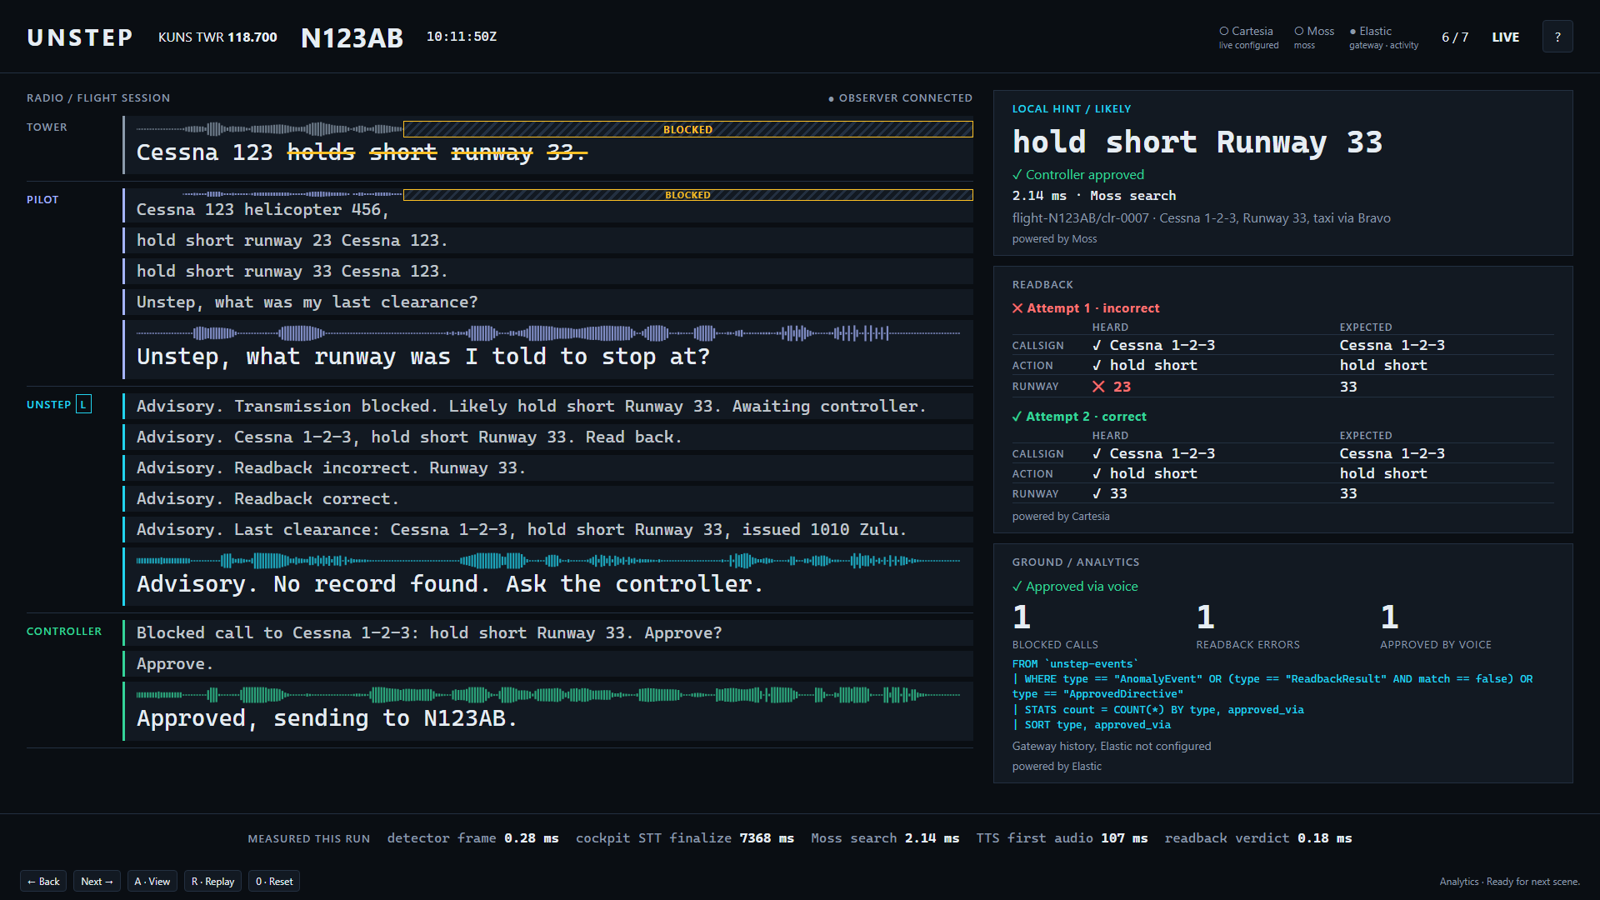
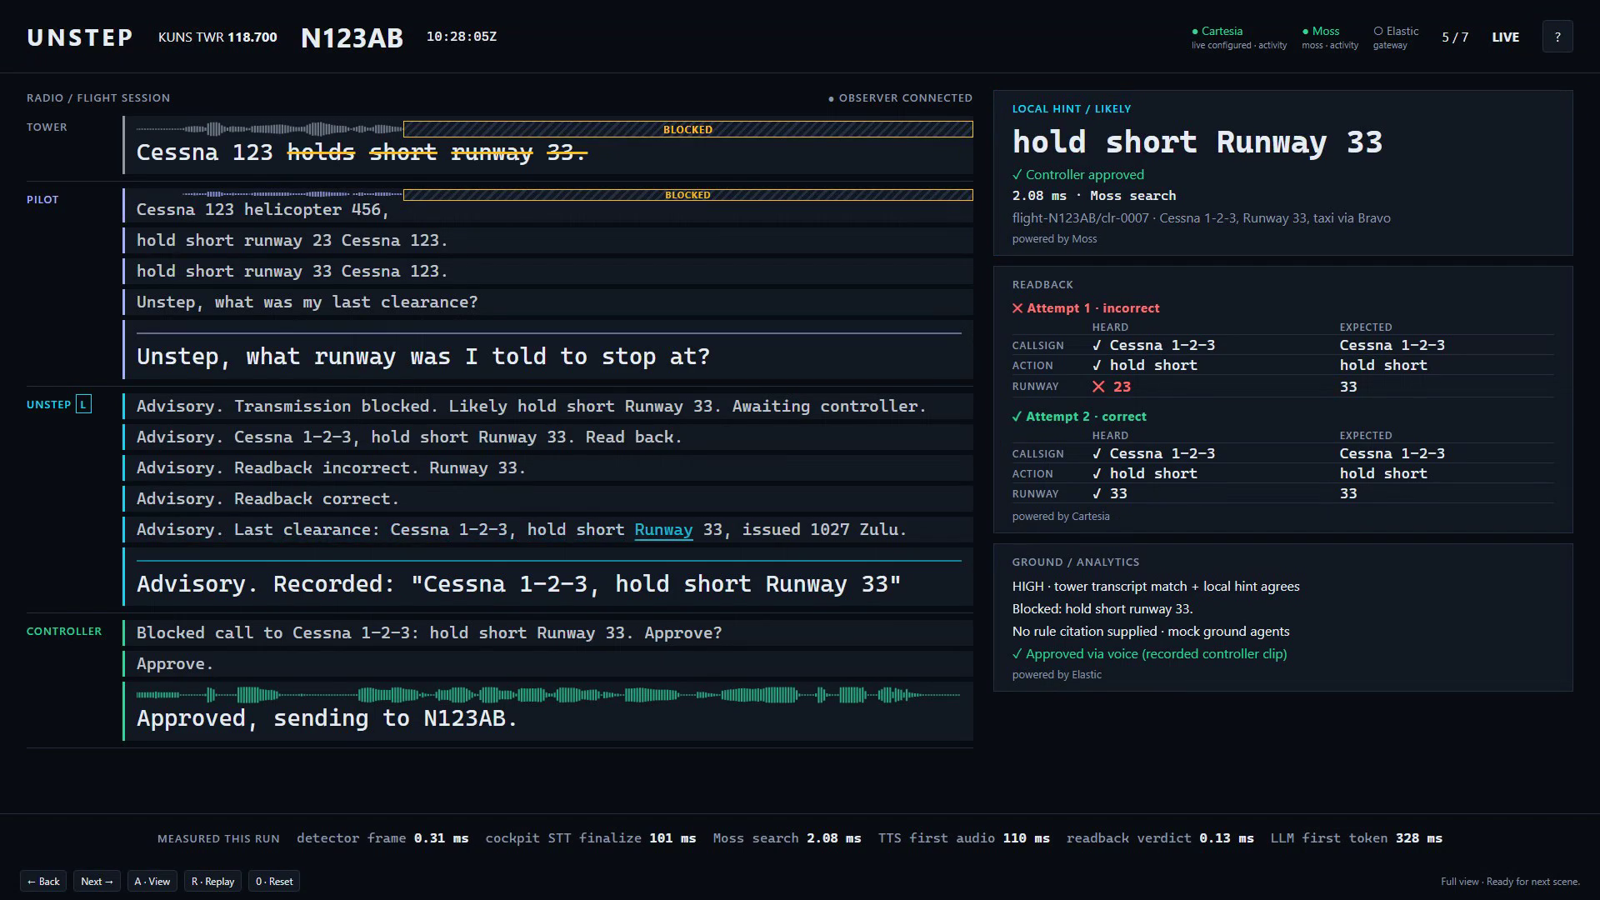
Update the README screenshot to the latest live run
- Shows measured cockpit STT, Moss, Cartesia first audio and Moss Inference first token, and the labeled recorded controller clip

diff --git a/README.md b/README.md
@@ -6,7 +6,7 @@ Pilots and controllers share one half-duplex VHF channel, so when two stations t
 
 ![Unstep demo screen, full view, from a live run on Cartesia, Moss and Moss Inference](docs/img/demo-full-view.png)
 
-*Full view after a live run: the tower words lost under the squeal are struck out, the cockpit's local hint came from Moss in 2 ms with its source record, the controller approved by voice, the wrong readback ("23") was caught and corrected, and every number in the bottom strip was measured in that run.*
+*Full view after a live run: the tower words lost under the squeal are struck out, Moss found the cockpit's local hint in 2 ms with its source record, the controller approved by voice (a recorded clip, labeled on screen), the wrong readback ("23") was caught and corrected, and Moss Inference answered the free-form question with an exact quote of the approved clearance. Every number in the bottom strip was measured in that run.*
 
 ## Presenter mode (the live demo)
 
